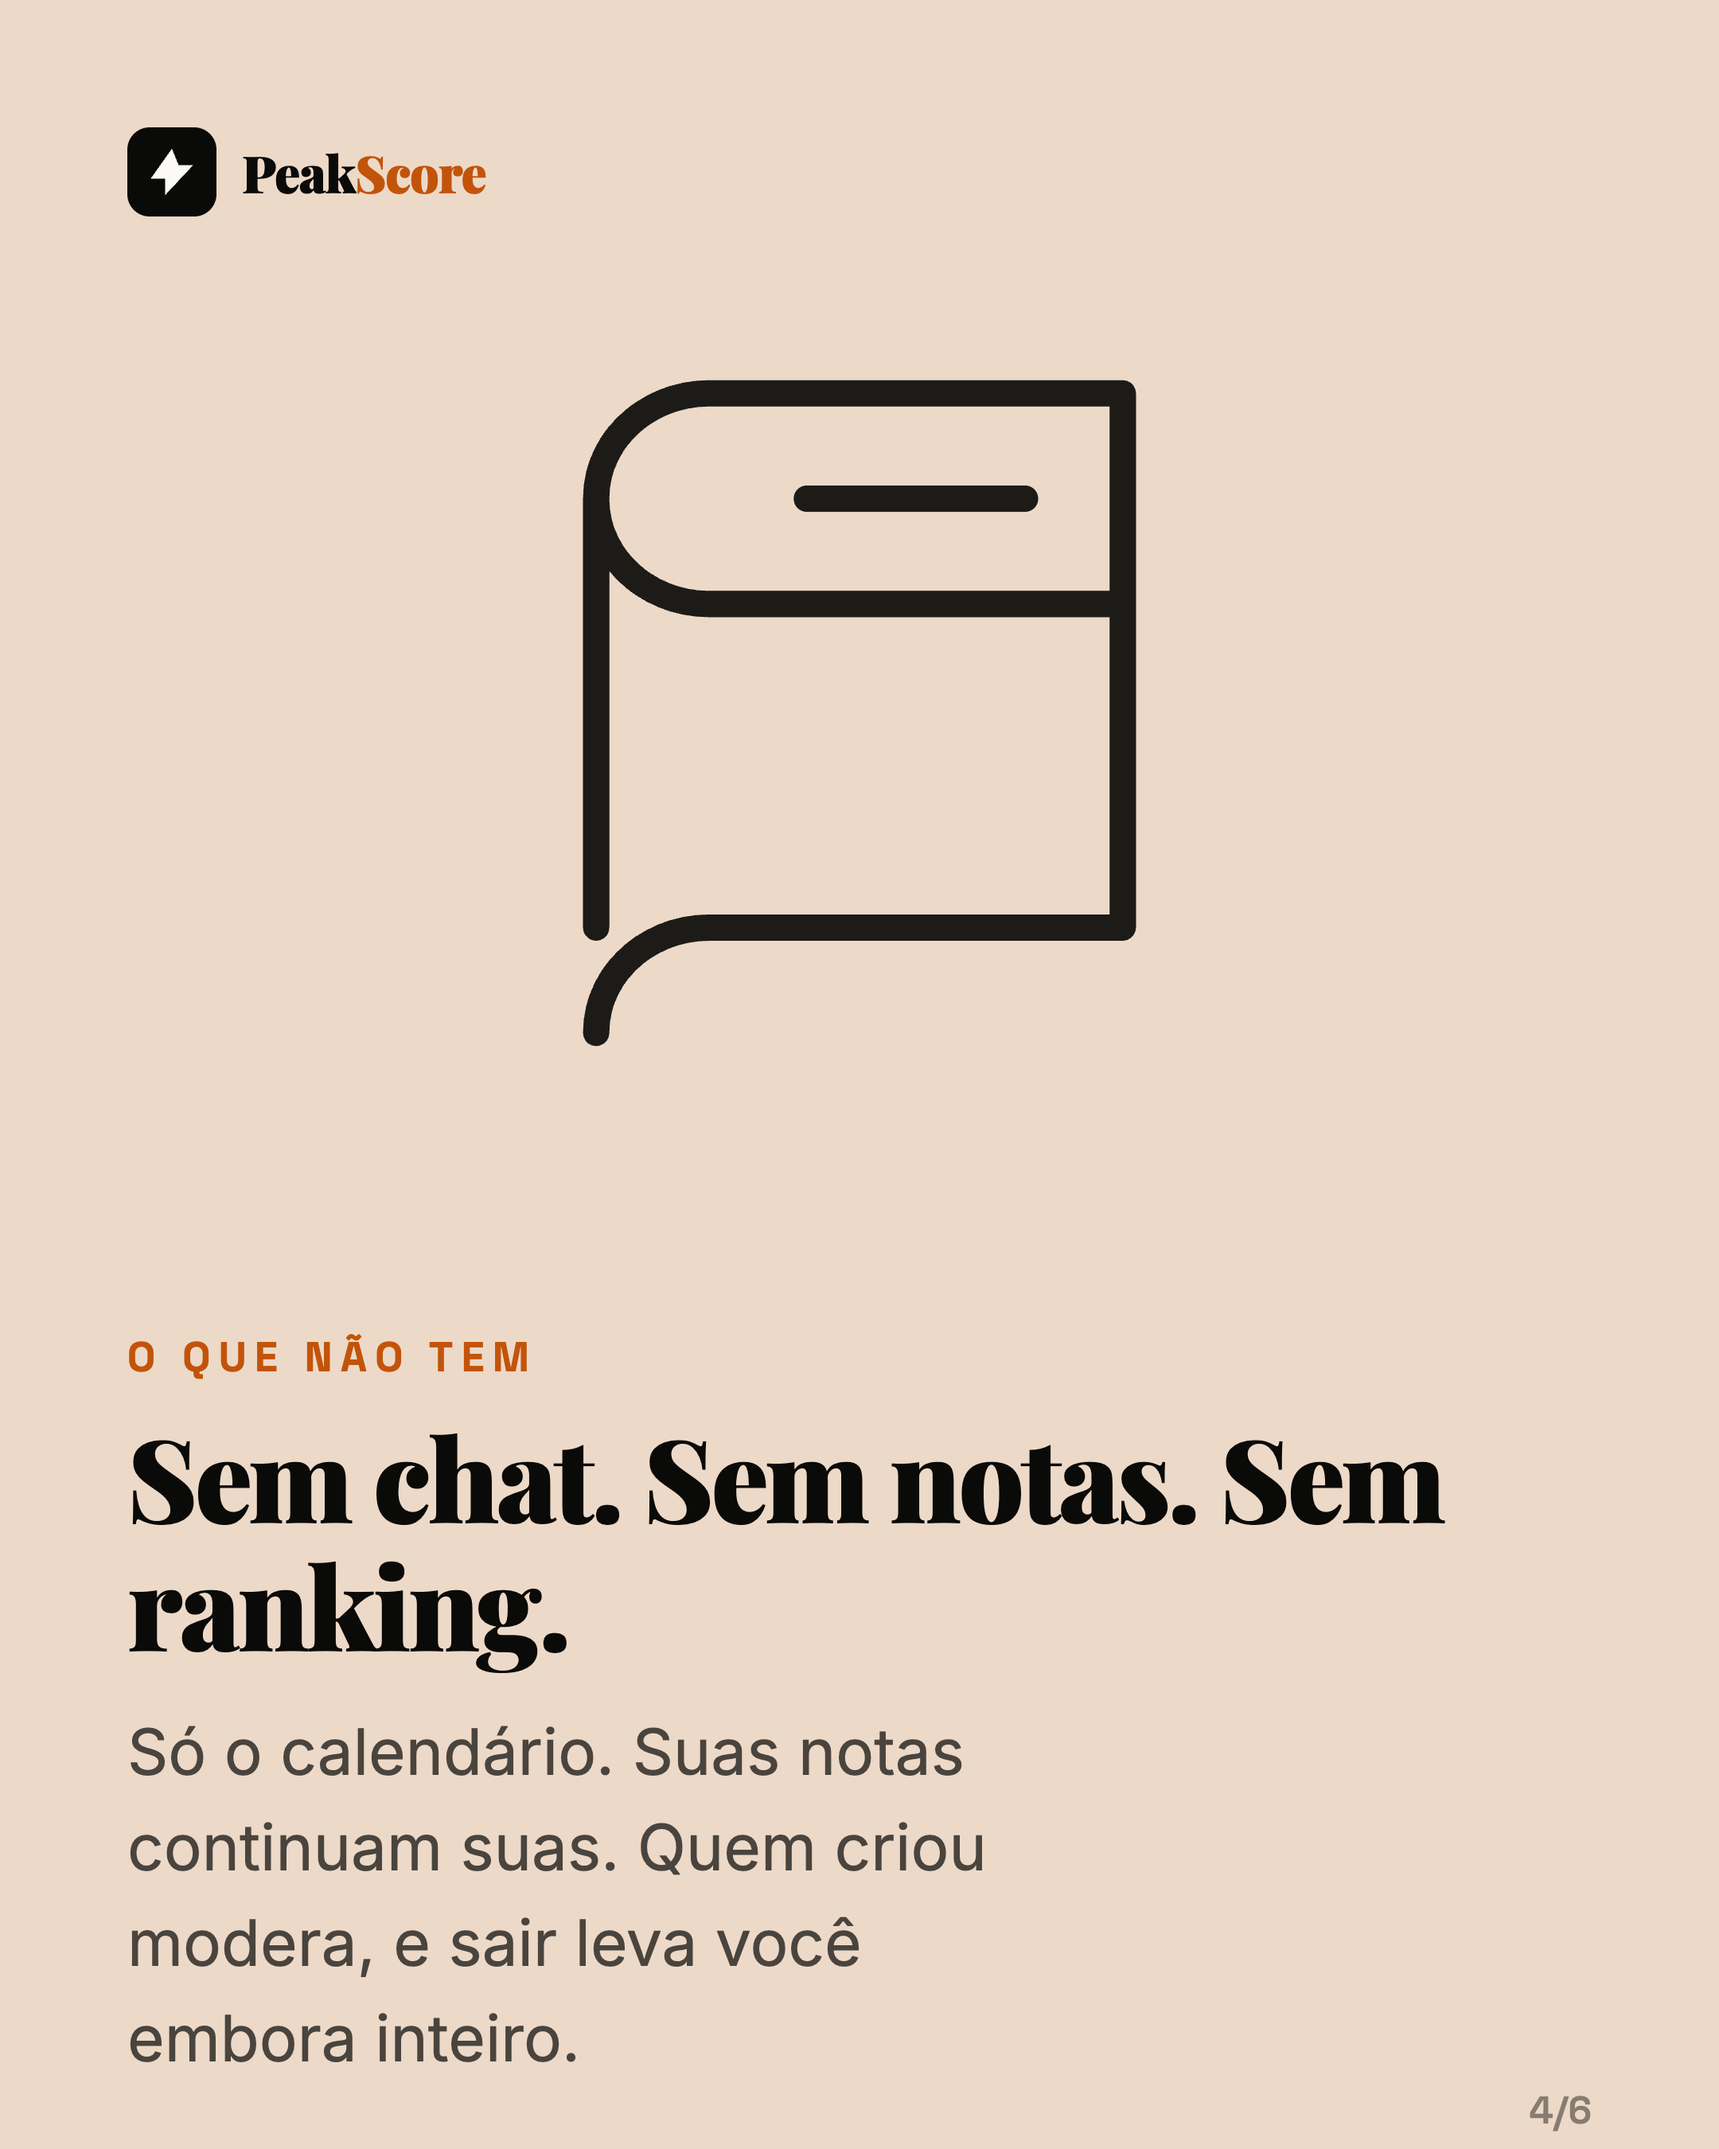
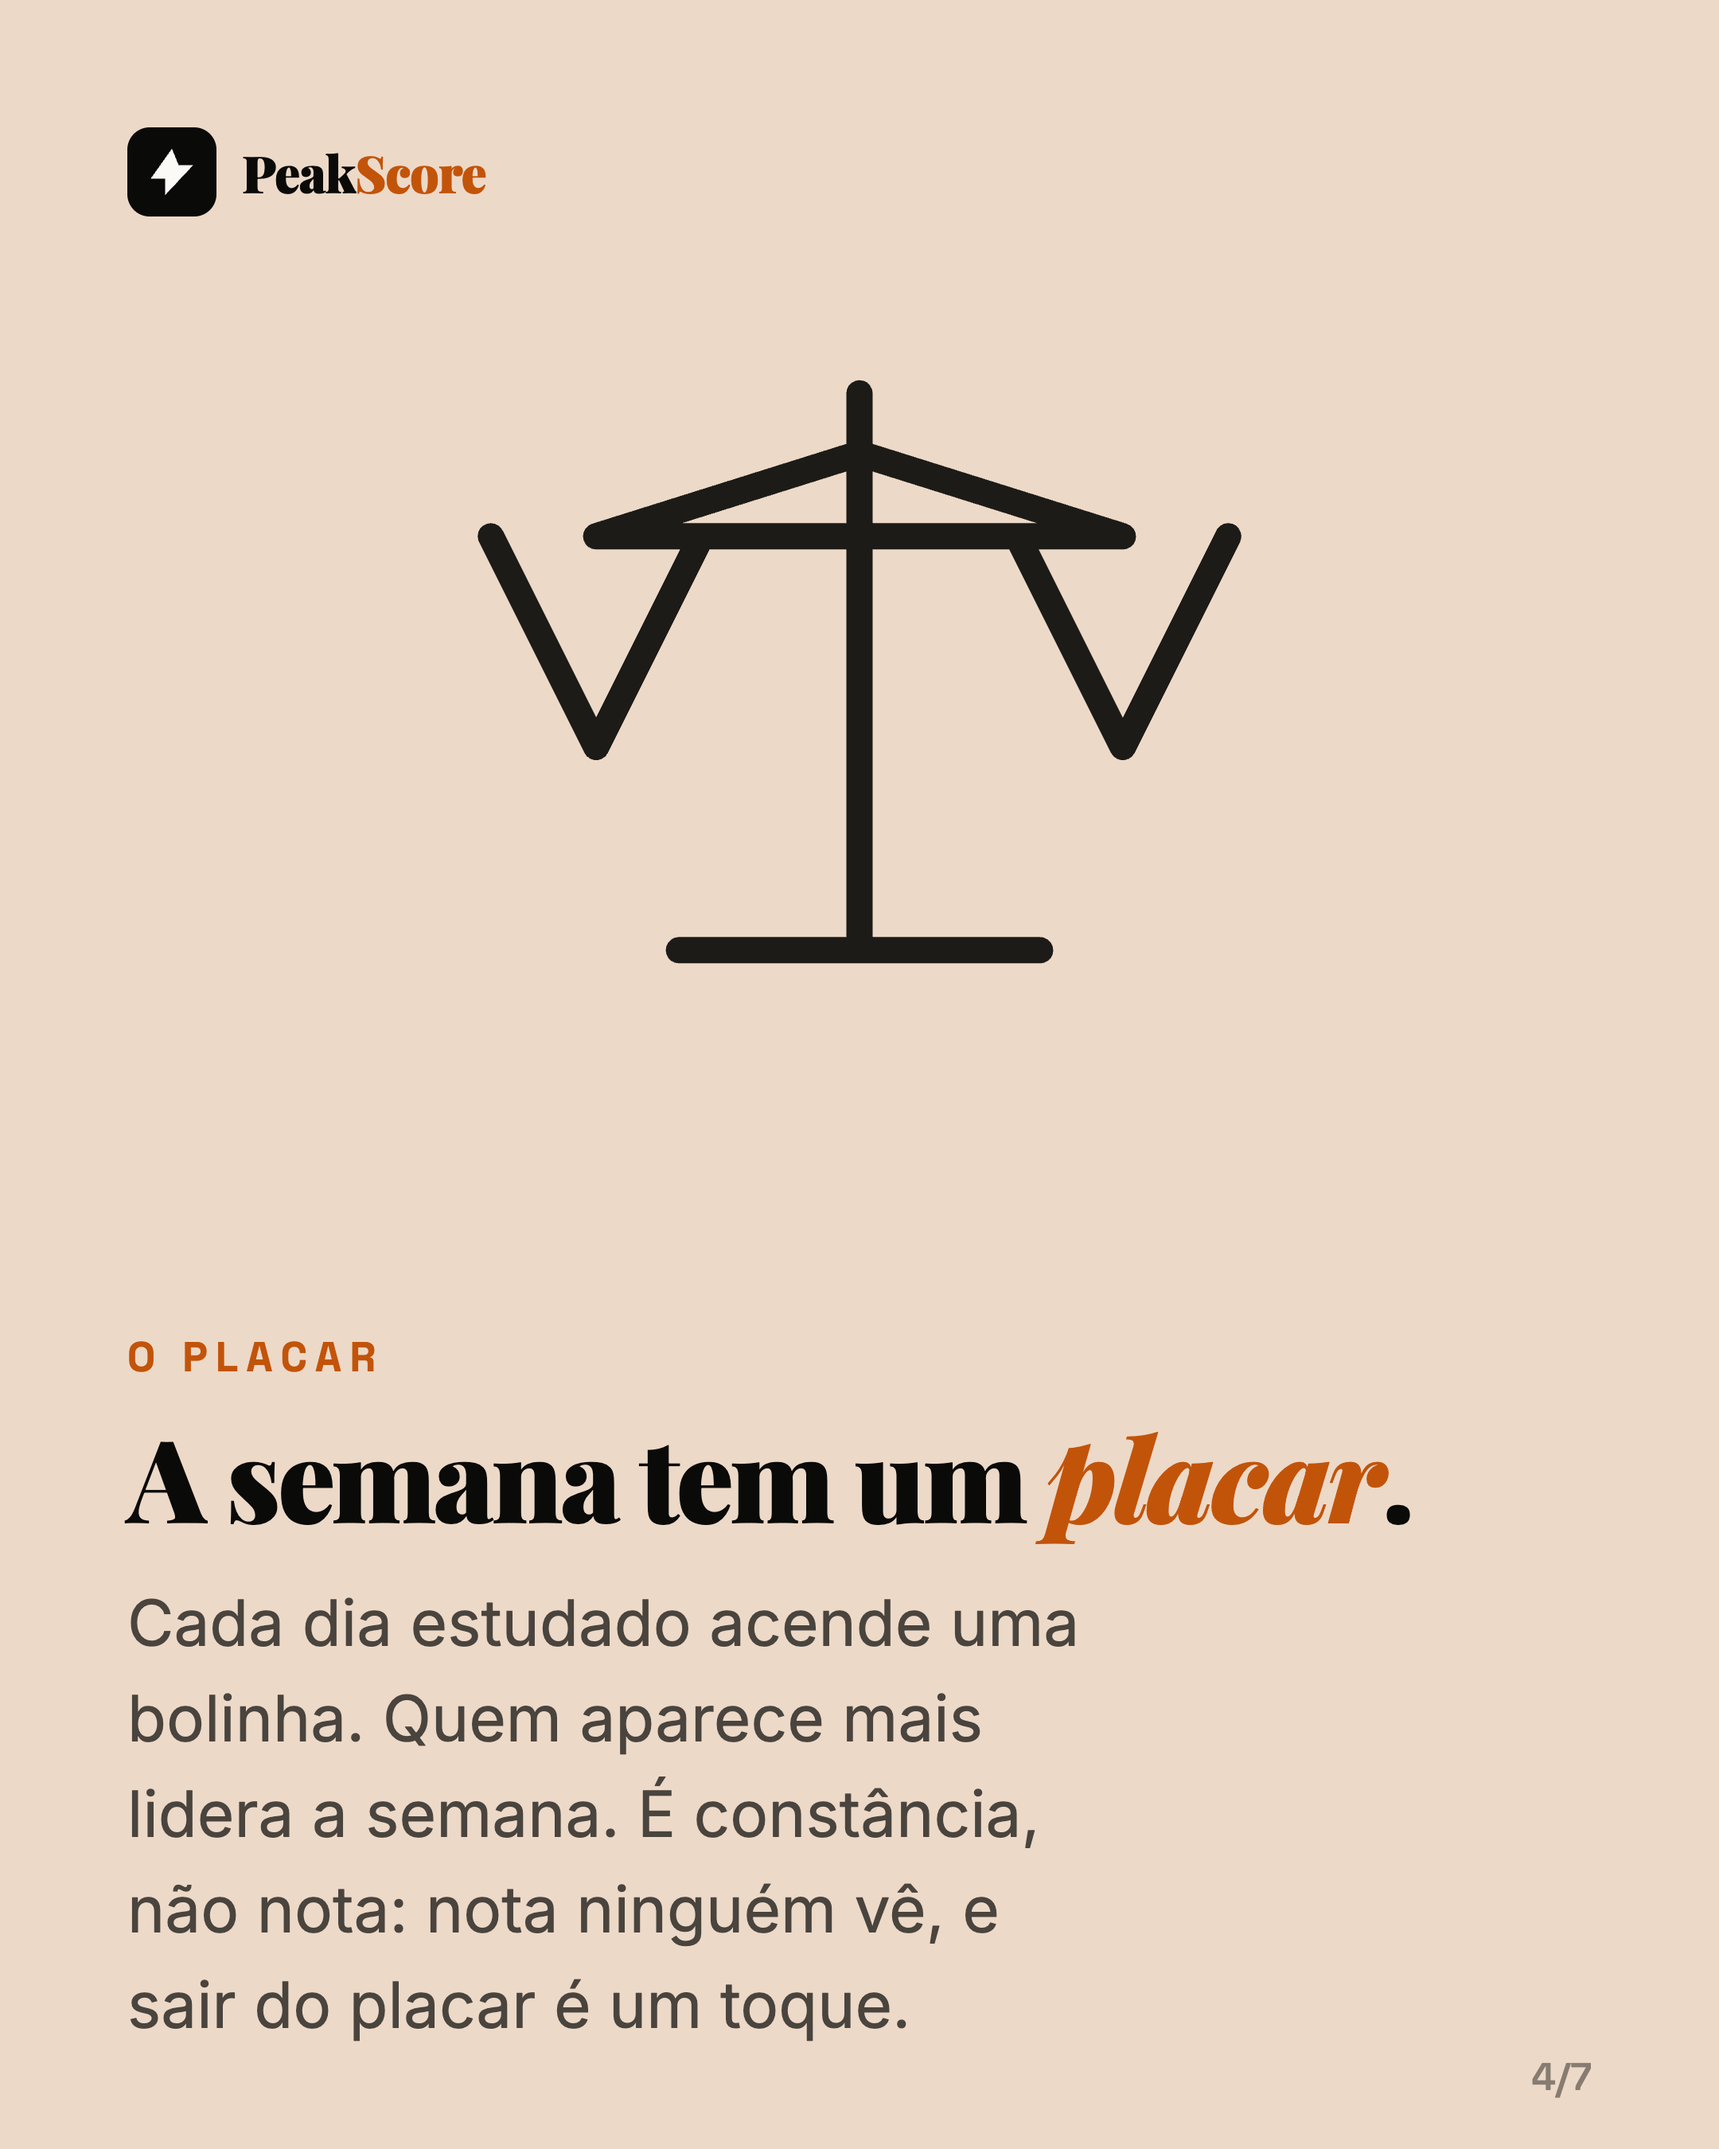
Sync Drop 01 to the live product: 7 cards, placar + estante
The app now has a week placar, so the deck's old 'Sem ranking' promise
was replaced (would contradict the live Turma). Drop 01 is 7 cards; the
agenda caption sells the placar and the shelf.

diff --git a/agenda-dados.js b/agenda-dados.js
@@ -234,16 +234,20 @@ A gente volta amanhã com a semana.`,
       stories: [
         { dir: 'campanha-stories', n: 3, o: 'Teaser 03 · véspera', faz: 'À noite, único story do feriado. Countdown sticker para amanhã 17h.' } ] },
     { d: '2026-09-08', contexto: 'DROP 01 · A TURMA · o dia mais importante do mês',
-      post: { dir: 'drop01', cards: 6, tipo: 'carrossel DROP · 6 cards',
+      post: { dir: 'drop01', cards: 7, tipo: 'carrossel DROP · 7 cards',
         titulo: 'DROP 01 · A Turma',
-        labels: ['capa','o que é','como funciona','o que não tem','a regra','comenta a escola'],
+        labels: ['capa','o que é','como funciona','o placar','a estante','o que não tem','comenta a escola'],
         legenda: `A gente construiu uma coisa nova, e ela não funciona sozinha. De propósito.
 
 Chama Turma. Alguém da sua sala cria, manda um link no grupo, e quem entra já vê o calendário de provas de vocês, montado. Qualquer um adiciona a prova que o professor marcou, e o cronograma de cada um se remonta em volta dela.
 
-O que ela NÃO tem é o mais importante: sem chat, sem notas, sem ranking. Só o calendário. Suas notas continuam suas, quem criou modera, e sair leva você embora inteiro.
+A semana tem um placar: cada dia estudado acende uma bolinha, e quem aparece mais lidera. É placar de constância, não de nota. Nota ninguém vê, e sair do placar é um toque.
 
-Uma agenda compartilhada com 3 pessoas é enfeite. Com a turma inteira, ninguém mais é pego de surpresa por prova.
+E tem uma estante: o resumo bom, a lista, a foto do quadro param de morrer no grupo. Quem mandou pode tirar, quem criou a turma modera.
+
+Sem chat. Suas notas continuam suas, e sair leva você embora inteiro.
+
+Uma turma com 3 pessoas é enfeite. Com a sala inteira, ninguém mais é pego de surpresa por prova.
 
 As primeiras turmas abrem onde tiver mais gente esperando.
 
